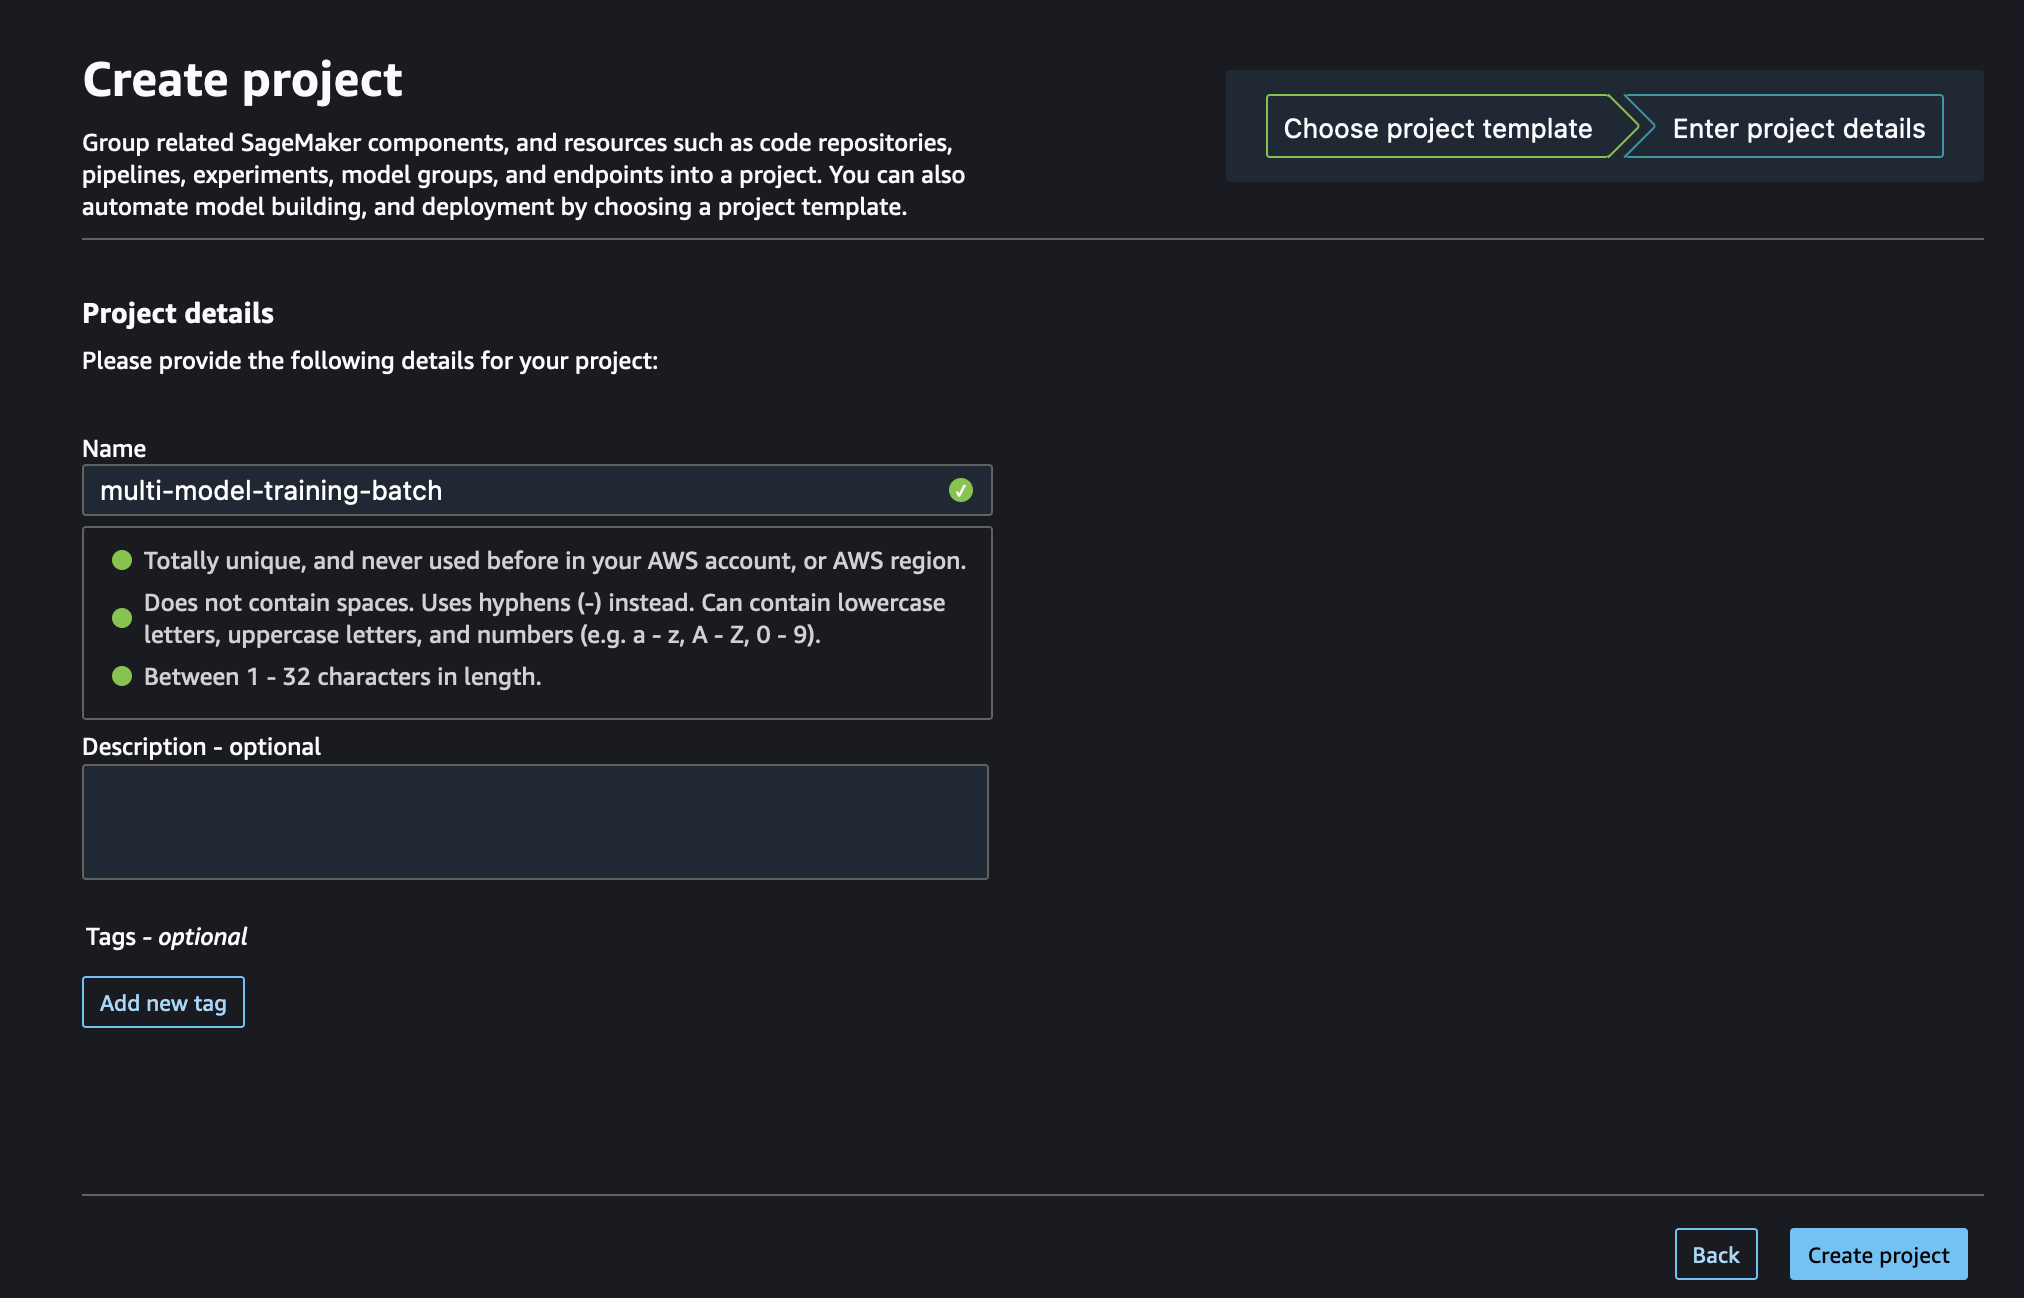
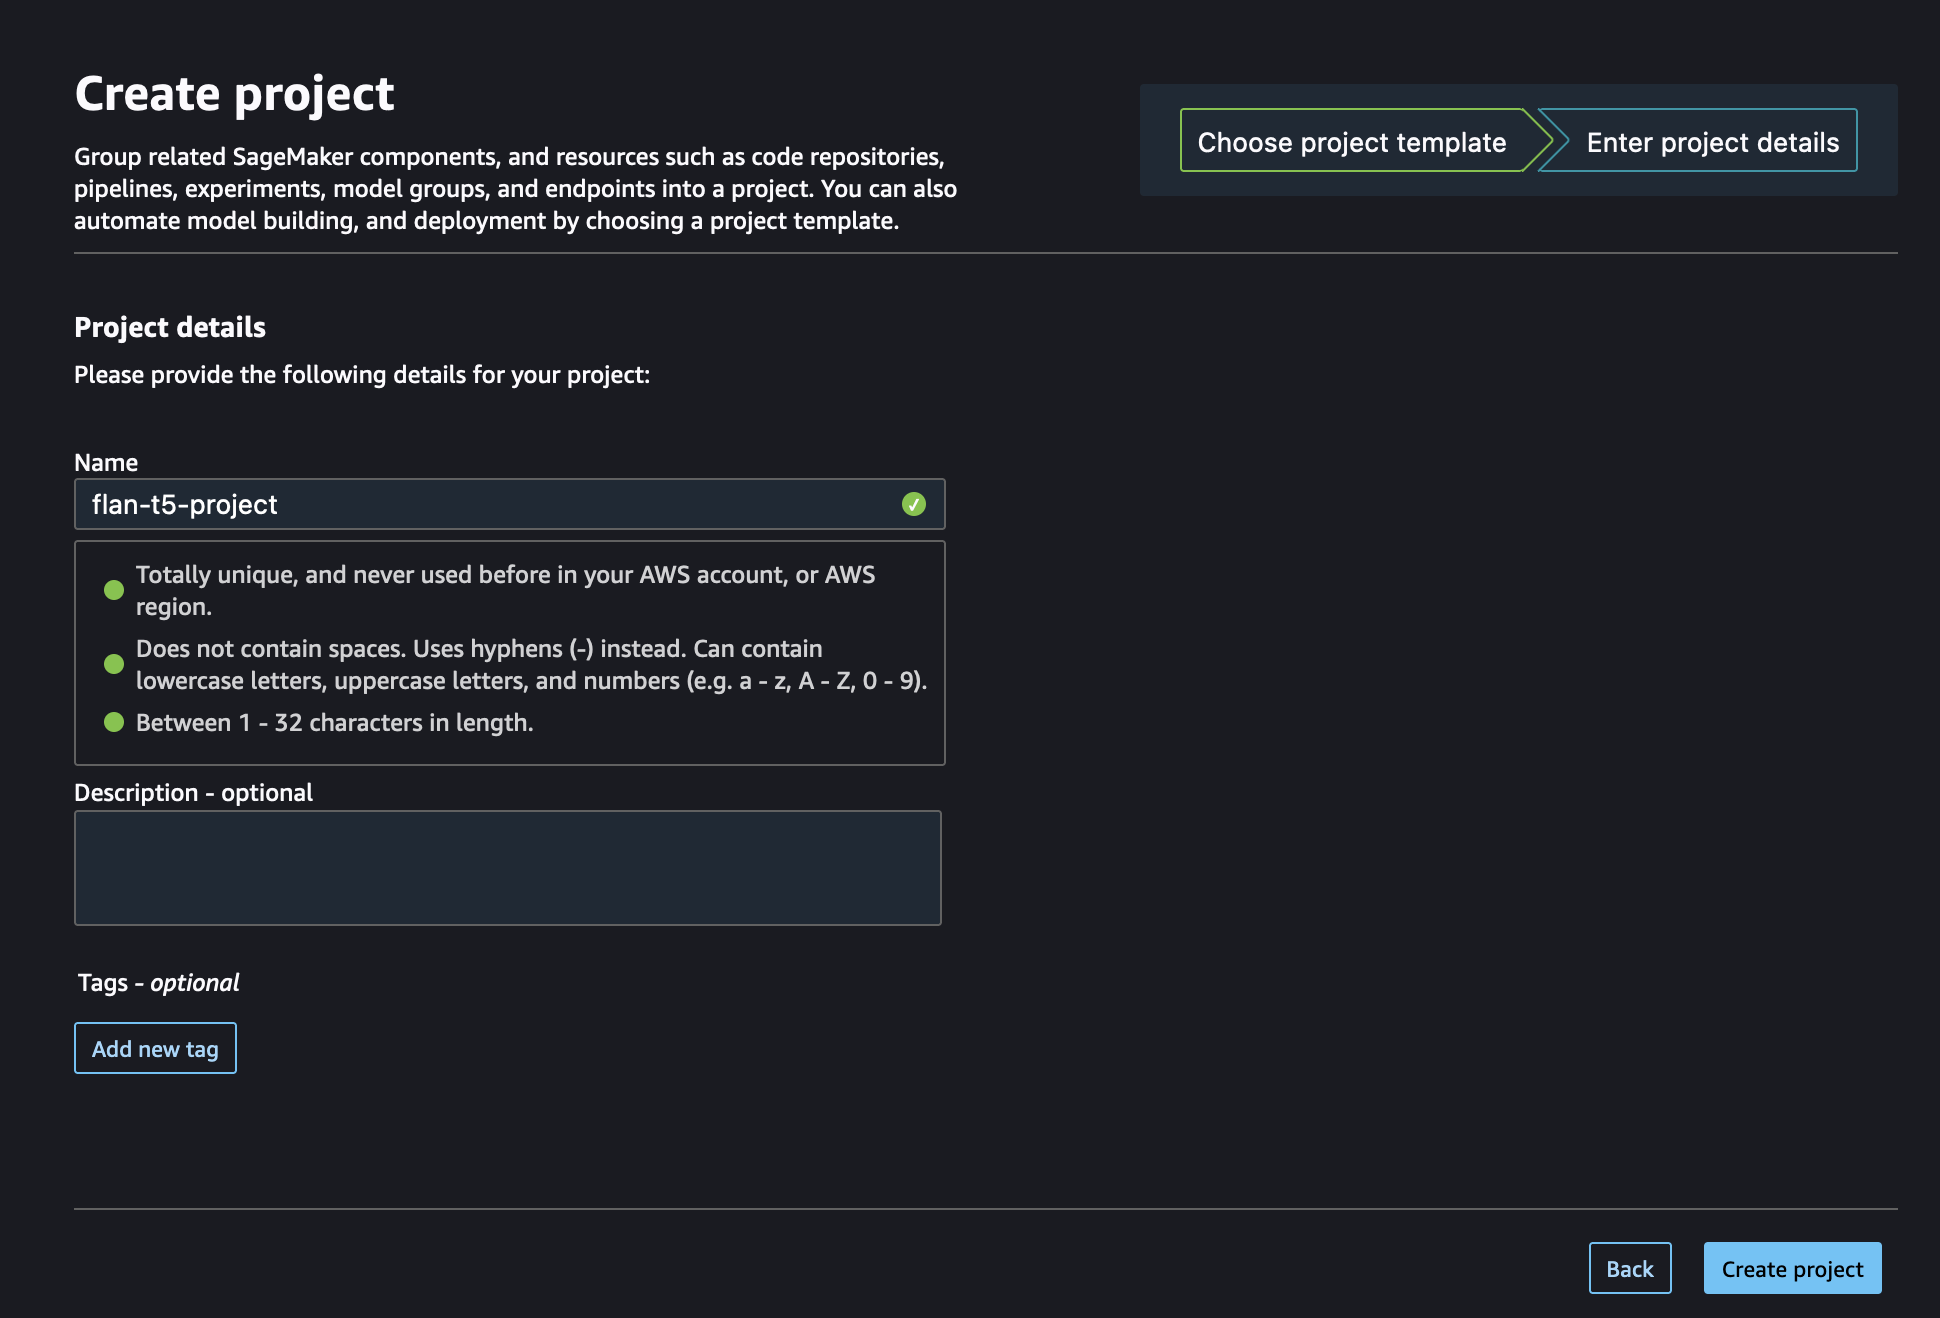
fixed bugs

diff --git a/project/seedcode/ml-deploy/build.py b/project/seedcode/ml-deploy/build.py
@@ -50,7 +50,7 @@ def extend_config(args, stage_config, container_def):
     # Create new params and tags
     new_params = {
         "ContainerImage": container_def["Image"],
-        "EndpointInstanceCount": args.inference_instance_count,
+        "EndpointInstanceCount": str(args.inference_instance_count),
         "EndpointInstanceType": args.inference_instance_type,
         "EndpointName": args.endpoint_name,
         "LambdaPath": s3_artifacts_path + "/lambda.zip",

diff --git a/project/README.md b/project/README.md
@@ -1,8 +1,8 @@
-# Multi-model training and batch inference pipeline
+# Flan T5 XXL Deployment Pipeline
 
 ## Purpose
 
-The purpose of this template is to deploy a Sagemaker Training Pipeline for parallel training of multiple models, and a scheduled batch inference using SageMaker Batch Transform and SageMaker Pipelines, given two `ModelGroupPackageName` from the Amazon SageMaker Model Registry. 
+The purpose of this template is to deploy a SageMaker Project for automating the deployment of a SageMaker Real-Time Endpoint using Flan T5 XXL Model from HuggingFace.
 
 ## Architecture
 
@@ -12,7 +12,7 @@ The purpose of this template is to deploy a Sagemaker Training Pipeline for para
 
 Part 1: Create initial Service Catalog Product
 
-1. To create the Service Catalog product for this project, download the `create-batch-inference-product.yaml` and upload it into your CloudFormation console: https://console.aws.amazon.com/cloudformation
+1. To create the Service Catalog product for this project, download the `create-real-time-inference-product.yaml` and upload it into your CloudFormation console: https://console.aws.amazon.com/cloudformation
 
 2. Update the Parameters section:
 
@@ -36,18 +36,11 @@ Part 1: Create initial Service Catalog Product
 
 Part 2: Deploy the Project inside of SageMaker Studio
 
-1. Open SageMaker Studio and sign in to your user profile.
-
-1. Choose the SageMaker __components and registries__ icon on the left, and choose the __Create project__ button.
-
-1. The default view displays SageMaker templates. Switch to the __Organization__ templates tab to see custom project templates.
-
-1. The template you created will be displayed in the template list. (If you do not see it yet, make sure the correct execution role is added to the product and the __sagemaker:studio-visibility__ tag with a value of __true__ is added to the Service Catalog product).
-
-1. Choose the template and click Select the correct project template.
-
-    ![](../images/sm-projects-listing.png)
-
+1. Open SageMaker Studio and sign in to your user profile. 
+2. Choose the SageMaker __components and registries__ icon on the left, and choose the __Create project__ button. 
+3. The default view displays SageMaker templates. Switch to the __Organization__ templates tab to see custom project templates. 
+4. The template you created will be displayed in the template list. (If you do not see it yet, make sure the correct execution role is added to the product and the __sagemaker:studio-visibility__ tag with a value of __true__ is added to the Service Catalog product). 
+5. Choose the template and click Select the correct project template. 
 6. Fill out the required fields for this project.
 
     - __Name:__ A unique name for the project deployment.

diff --git a/README.md b/README.md
@@ -1,5 +1,18 @@
 # Multi Language HuggingFace Flan-T5 XXL using Amazon SageMaker
 
+The scope of this repo is to provide an end-to-end example for using HuggingFace Flan T5 XXL model on AWS by using 
+Amazon SageMaker Real-Time Endpoint, Amazon Comprehend, and Amazon Translate for managing multi-language inputs.
+
+## Reference Blogs
+1. [Create Your Own Large Language Model Playground in SageMaker Studio](https://towardsdatascience.com/create-your-own-large-language-model-playground-in-sagemaker-studio-1be5846c5089)
+2. [Deploy FLAN-T5 XXL on Amazon SageMaker](https://www.philschmid.de/deploy-flan-t5-sagemaker)
+3. [Architect personalized generative AI SaaS applications on Amazon SageMaker](https://aws.amazon.com/blogs/machine-learning/architect-personalized-generative-ai-saas-applications-on-amazon-sagemaker/)
+
 ## Architecture
 
 ![Architecture](./images/architecture.png)
+
+## Repository Content
+
+1. [notebook](./notebook): Use Amazon SageMaker Studio Notebooks for testing the end-to-end solution in the notebook [Deploy-LLM-Model](./notebook/Deploy-LLM-Model.ipynb)
+2. [project](./project): Automate the creation of an MLOps Pipeline for Model deployment by using SageMaker Project
